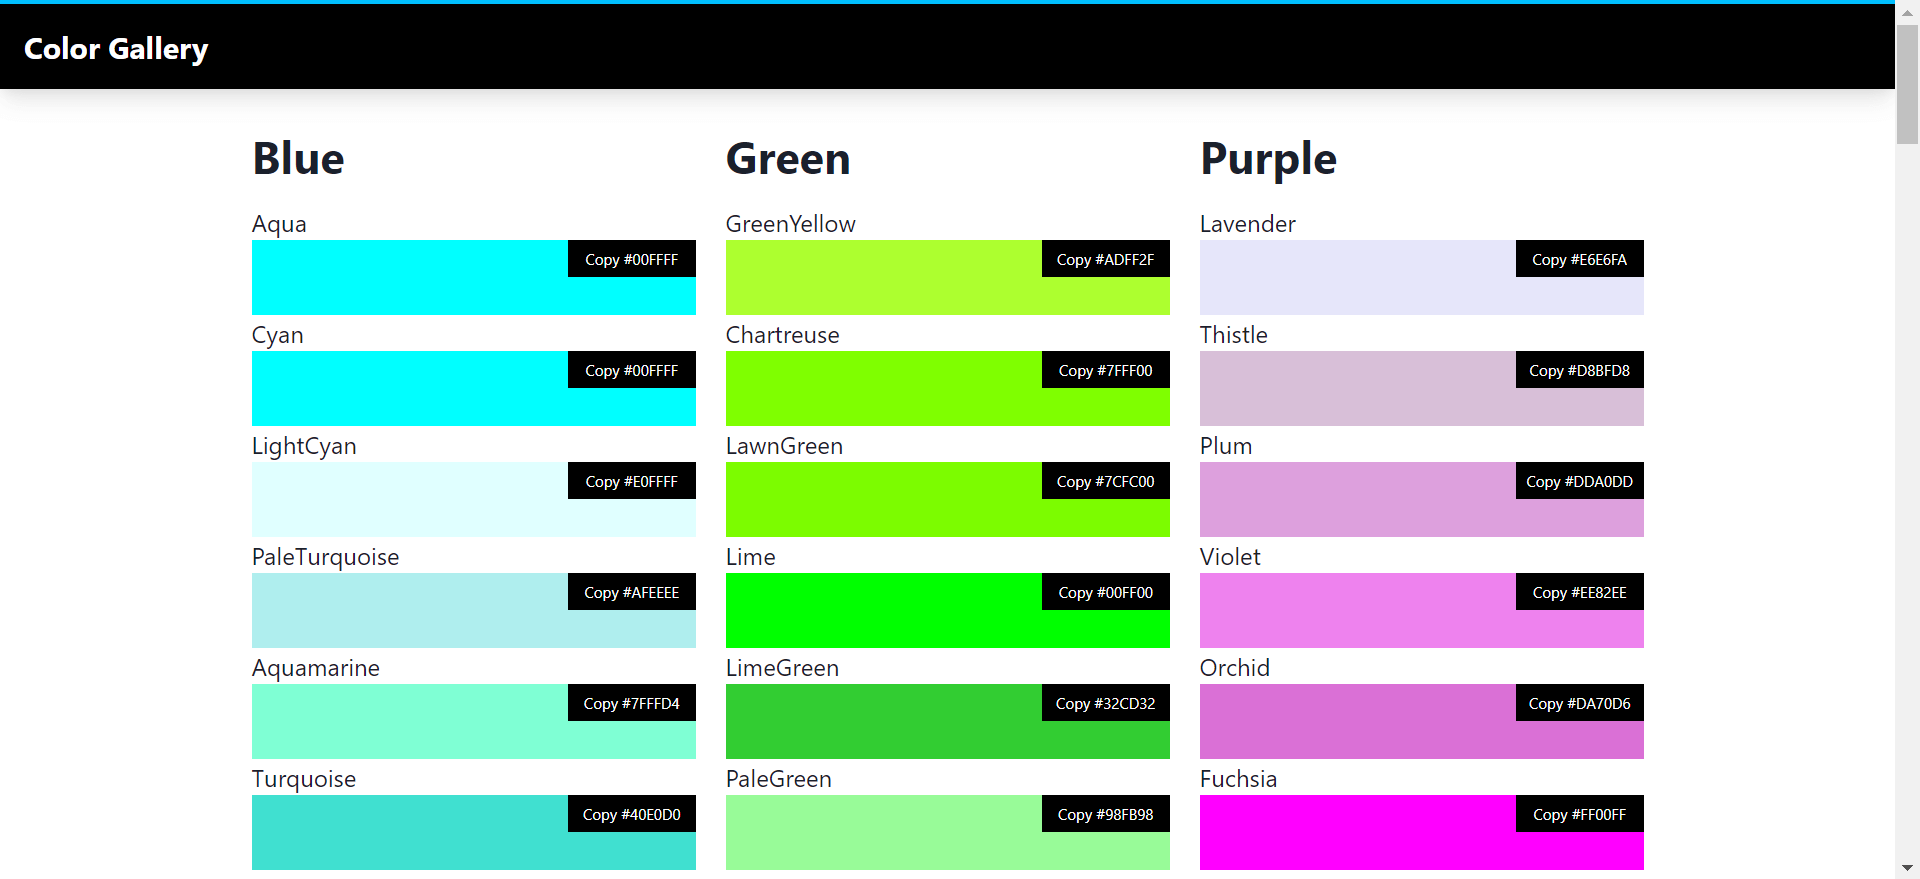
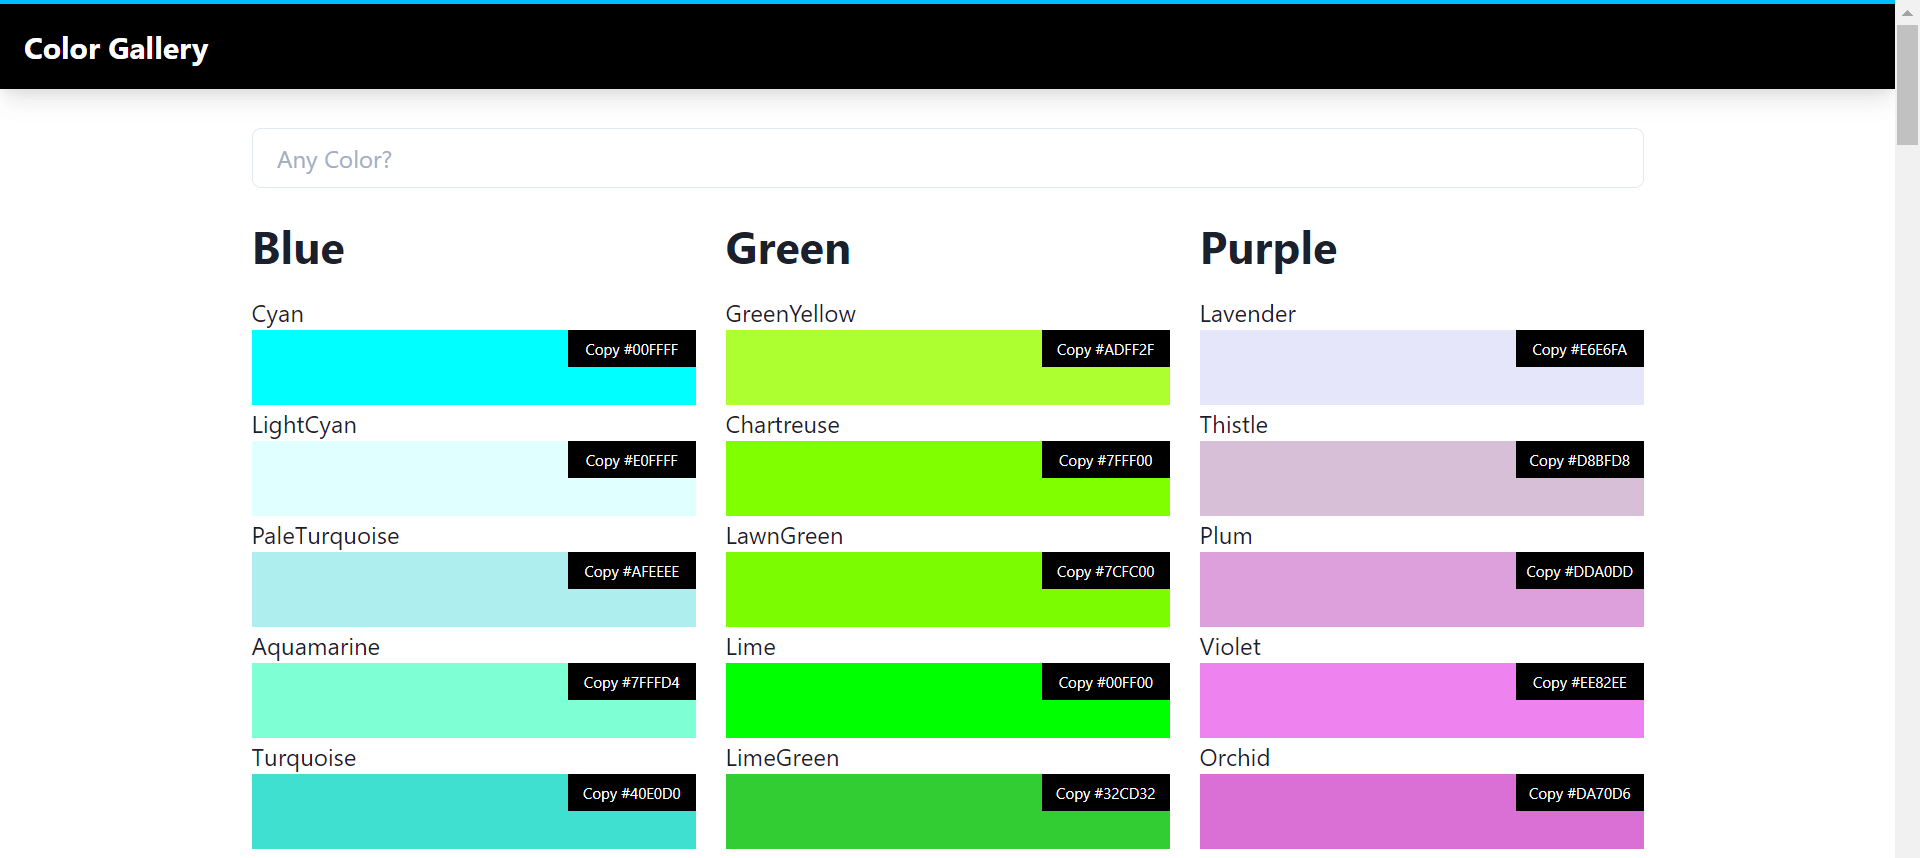
add search color feature

diff --git a/src/containers/HomePage.tsx b/src/containers/HomePage.tsx
@@ -1,7 +1,8 @@
-import React, {useState, useEffect} from 'react'
+import React, {useState} from 'react'
 import { Container, 
          Heading,
          Box,
+         Input,
          SimpleGrid} from '@chakra-ui/react';
 import BoxColor from '../components/BoxColor';
 import {colorType, ColorList} from '../components/ColorList';
@@ -9,9 +10,18 @@ import {colorType, ColorList} from '../components/ColorList';
 export default function HomePage() {
 
   const [colorList, setColorList] = useState<colorType[]>(ColorList);
+  const [filteredColorList, setFilteredColorList] = useState<colorType[]>(ColorList);
+  const [keyWord, setKeyword] = useState<string>("");
 
-  useEffect(()=>{
-  },[])
+  const handleChange = (event:React.ChangeEvent<{ value: string }>) => {
+    let val = event.target.value
+    setKeyword(val);
+    if (val === "") {
+      setFilteredColorList(ColorList);
+    } else {
+      setFilteredColorList( colorList.filter((color) => color.name.includes(val)))
+    }
+  };
 
   return (
     <div>
@@ -20,11 +30,12 @@ export default function HomePage() {
         marginTop="85px"
         marginBottom="16px">
         <Box>
-        <SimpleGrid columns={[1, null, 3]} marginBottom="35px" spacing="20px">
-          {colorList.map(color => (
-            <Box>
+        <Input value={keyWord} onChange={handleChange} placeholder="Any Color?"></Input>
+        <SimpleGrid columns={[1, null, 3]} marginTop="20px" marginBottom="35px" spacing="20px">
+          {filteredColorList.map(color => (
+            <Box key={color.name}>
                 <Heading as="h3" size="lg">{color.name}</Heading>
-                <BoxColor key={color.name}  colors={color.colors}></BoxColor>
+                <BoxColor colors={color.colors}></BoxColor>
             </Box>
           ))}
         </SimpleGrid>

diff --git a/src/components/ColorList.tsx b/src/components/ColorList.tsx
@@ -7,7 +7,6 @@ export const ColorList : colorType[] = [
   {
     name:"Blue",
     colors:[
-      {name: "Aqua", code: "#00FFFF"},
       {name: "Cyan", code: "#00FFFF"},
       {name: "LightCyan", code: "#E0FFFF"},
       {name: "PaleTurquoise", code: "#AFEEEE"},
@@ -70,7 +69,6 @@ export const ColorList : colorType[] = [
       {name: "Plum", code: "#DDA0DD"},
       {name: "Violet", code: "#EE82EE"},
       {name: "Orchid", code: "#DA70D6"},
-      {name: "Fuchsia", code: "#FF00FF"},
       {name: "Magenta", code: "#FF00FF"},
       {name: "MediumOrchid", code: "#BA55D3"},
       {name: "MediumPurple", code: "#9370DB"},

diff --git a/src/components/BoxColor.tsx b/src/components/BoxColor.tsx
@@ -16,7 +16,7 @@ function BoxColor({colors}:BoxProps) {
   const toast = useToast()
   const copiedCodeToast =(code:string)=> {
     toast({
-      position: "bottom",
+      position: "top",
       title: code + " Copied to clipboard!",
       status: "info",
       duration: 2000,
@@ -32,7 +32,7 @@ function BoxColor({colors}:BoxProps) {
     <div>
       <Box marginTop="15px">
         {colors.map(color => (
-          <Box onClick={copyCode(color.code)}>
+          <Box key={color.code} onClick={copyCode(color.code)}>
             <Text> {color.name} </Text>
             <Box 
               height="50px" 
